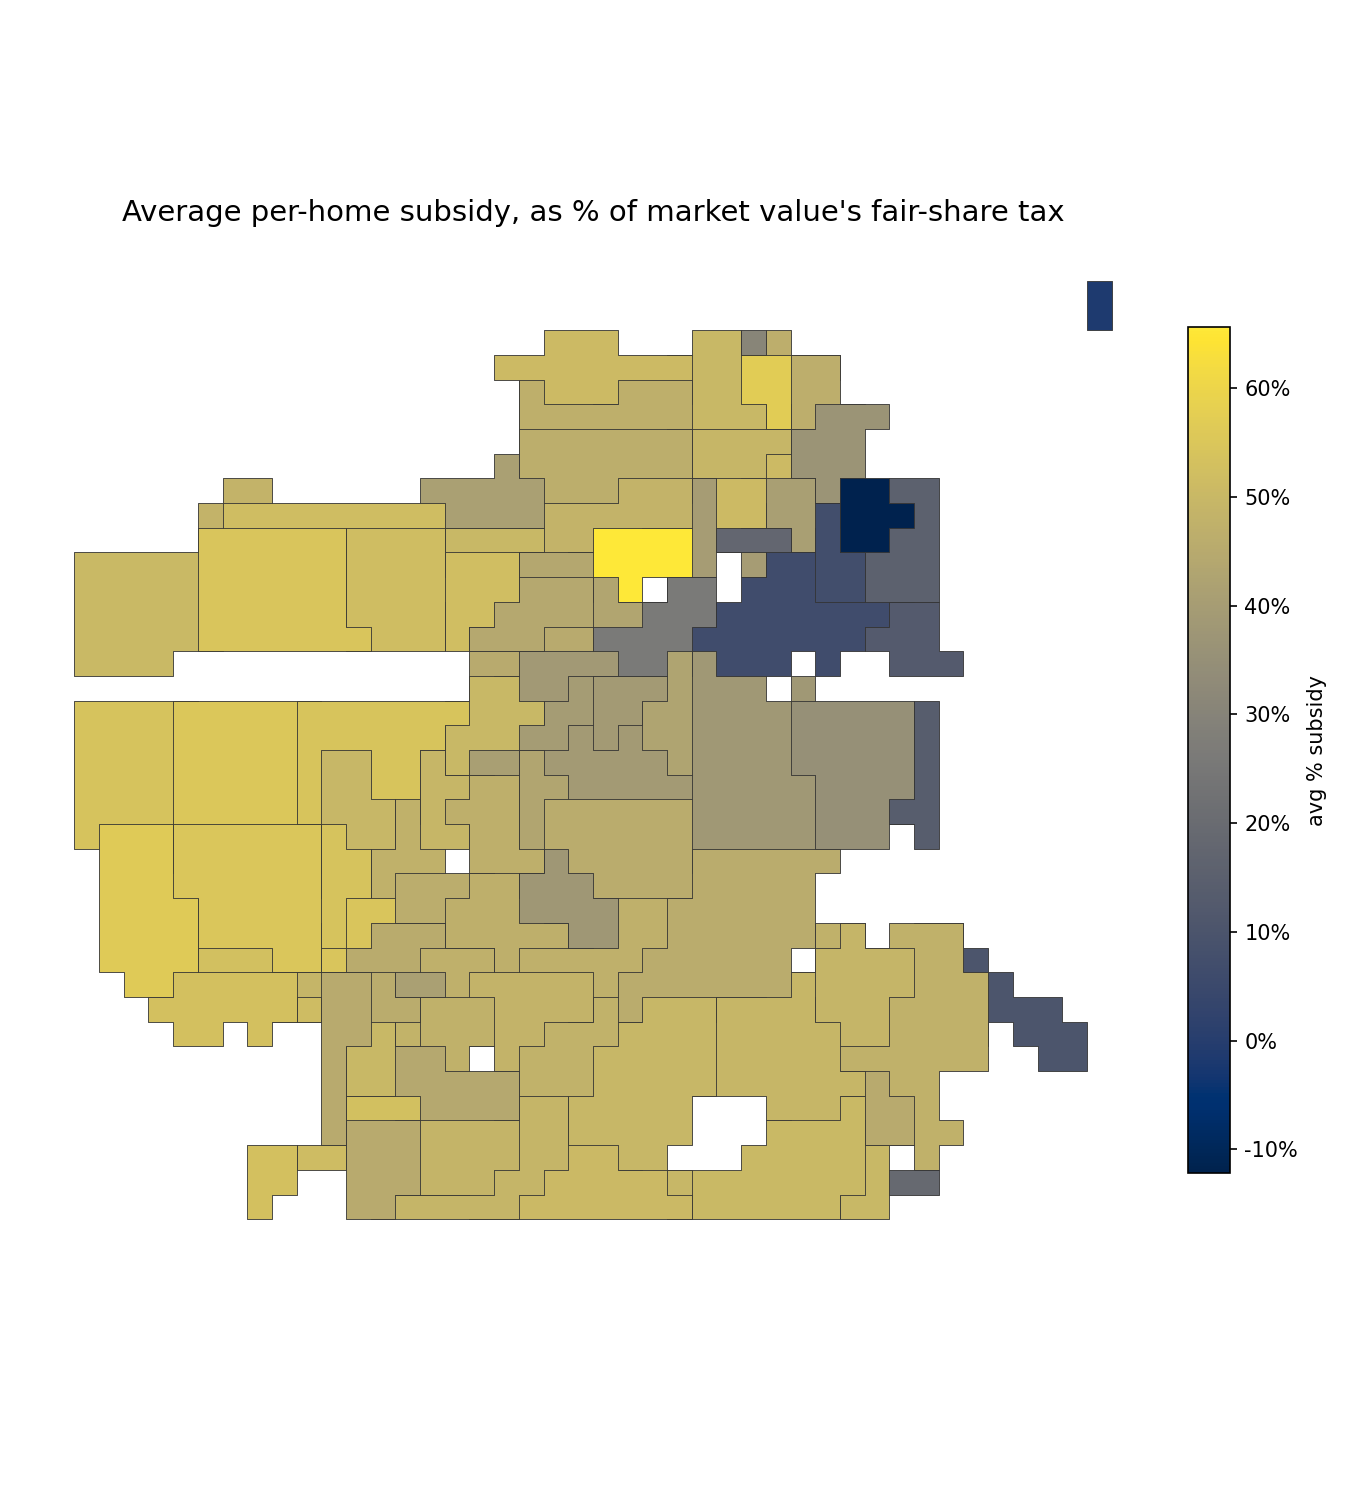
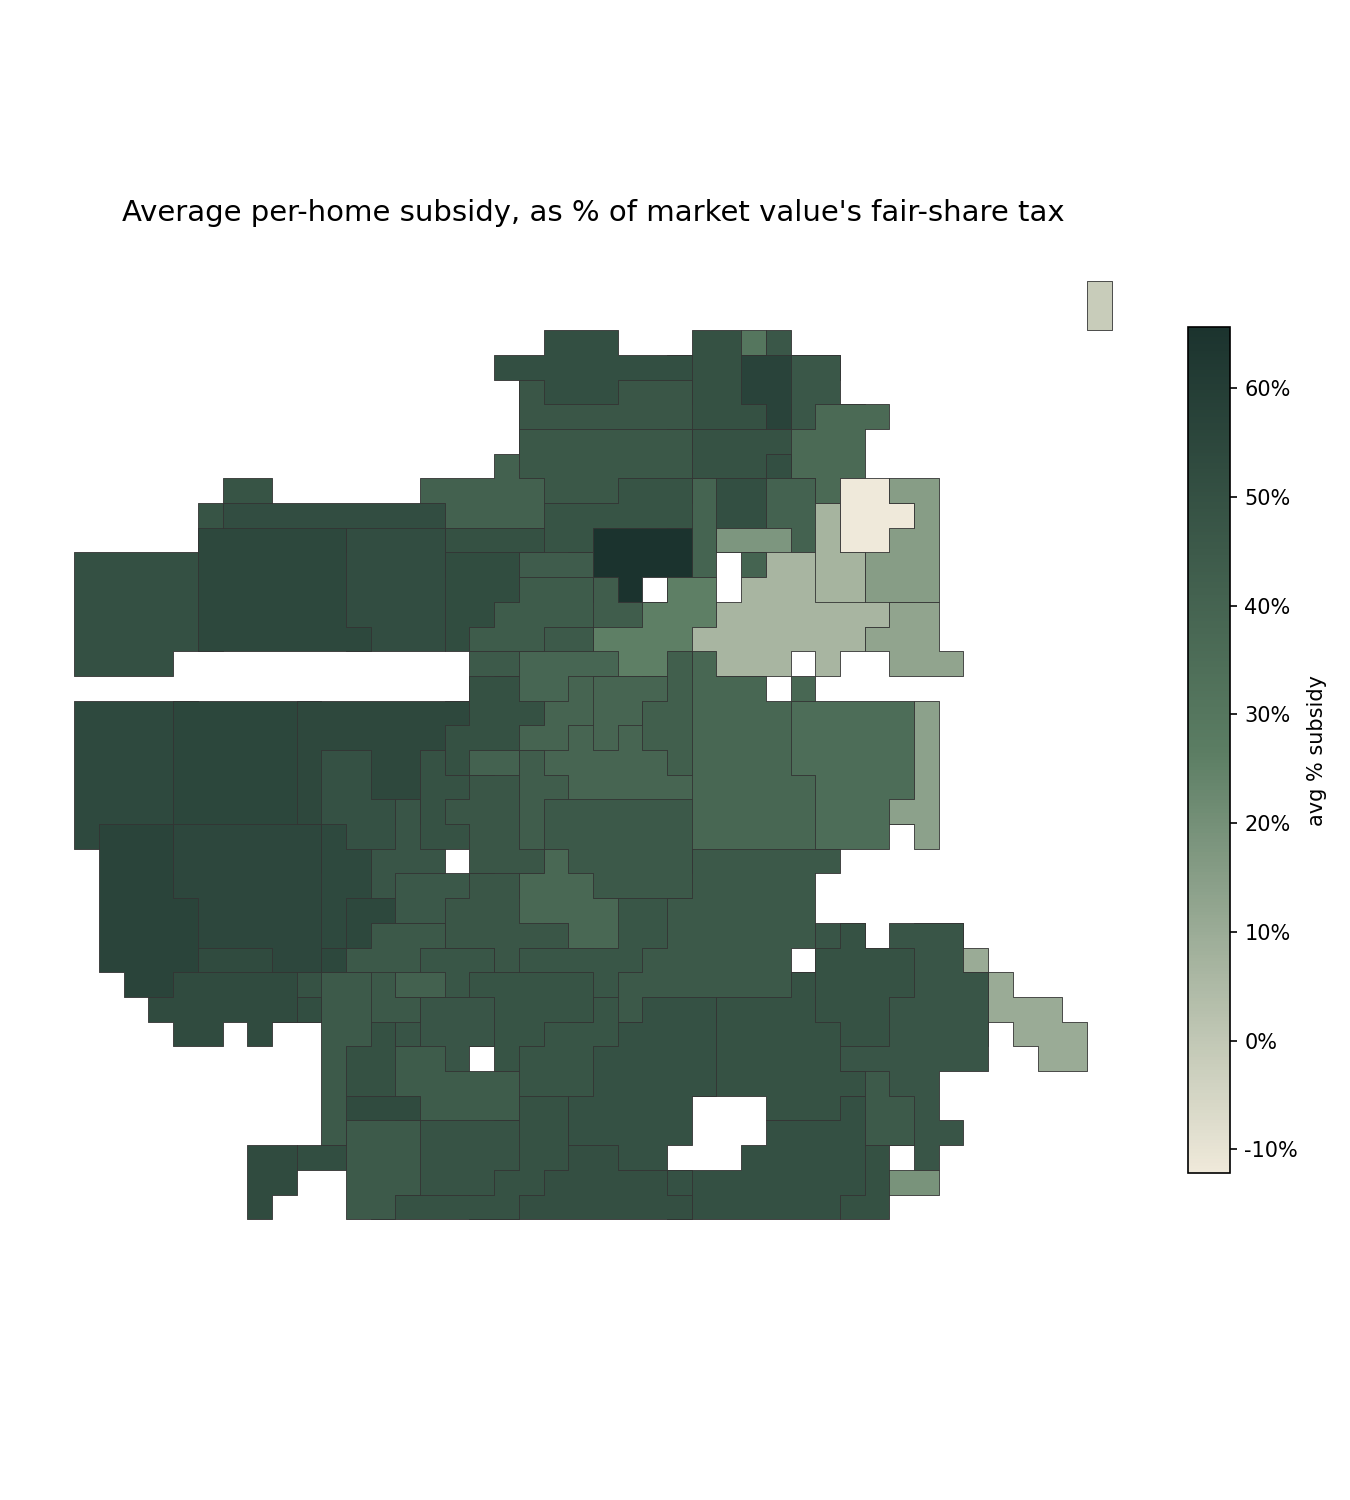
Switch subsidy maps to a forest-green-to-parchment lightness ramp
Custom colormap (parchment #efe9da -> sage -> forest green #1b332e,
matching the site's own palette) instead of cividis -- a single-hue
brightness gradient rather than any diverging hue scale, per request.

diff --git a/pipeline/11_neighborhood_subsidy_stats.py b/pipeline/11_neighborhood_subsidy_stats.py
@@ -31,8 +31,17 @@ from pathlib import Path
 
 import numpy as np
 import matplotlib.pyplot as plt
+from matplotlib.colors import LinearSegmentedColormap
 from matplotlib.patches import Polygon
 from matplotlib.collections import PatchCollection
+
+# Parchment (lowest subsidy) to dark forest green (highest subsidy) -- a single-hue
+# lightness ramp rather than a red-green diverging scale, so it stays legible for
+# red-green color vision deficiency. Matches the site's own palette (--surface-alt
+# parchment, --primary-dark forest green).
+FOREST_PARCHMENT = LinearSegmentedColormap.from_list(
+    "forest_parchment", ["#efe9da", "#5b7d63", "#1b332e"]
+)
 
 REPO = Path(__file__).resolve().parent.parent
 OUT_DIR = REPO / "analysis"
@@ -181,7 +190,7 @@ draw_choropleth(
     "Average per-home subsidy, as % of market value's fair-share tax",
     "avg % subsidy",
     OUT_DIR / "neighborhood_pct_subsidy_map.png",
-    "cividis",
+    FOREST_PARCHMENT,
     lambda v, _: f"{v:.0f}%",
 )
 draw_choropleth(
@@ -189,6 +198,6 @@ draw_choropleth(
     "Average per-home subsidy, in dollars/year",
     "avg $ subsidy / home / yr",
     OUT_DIR / "neighborhood_dollar_subsidy_map.png",
-    "cividis",
+    FOREST_PARCHMENT,
     lambda v, _: f"${v:,.0f}",
 )
